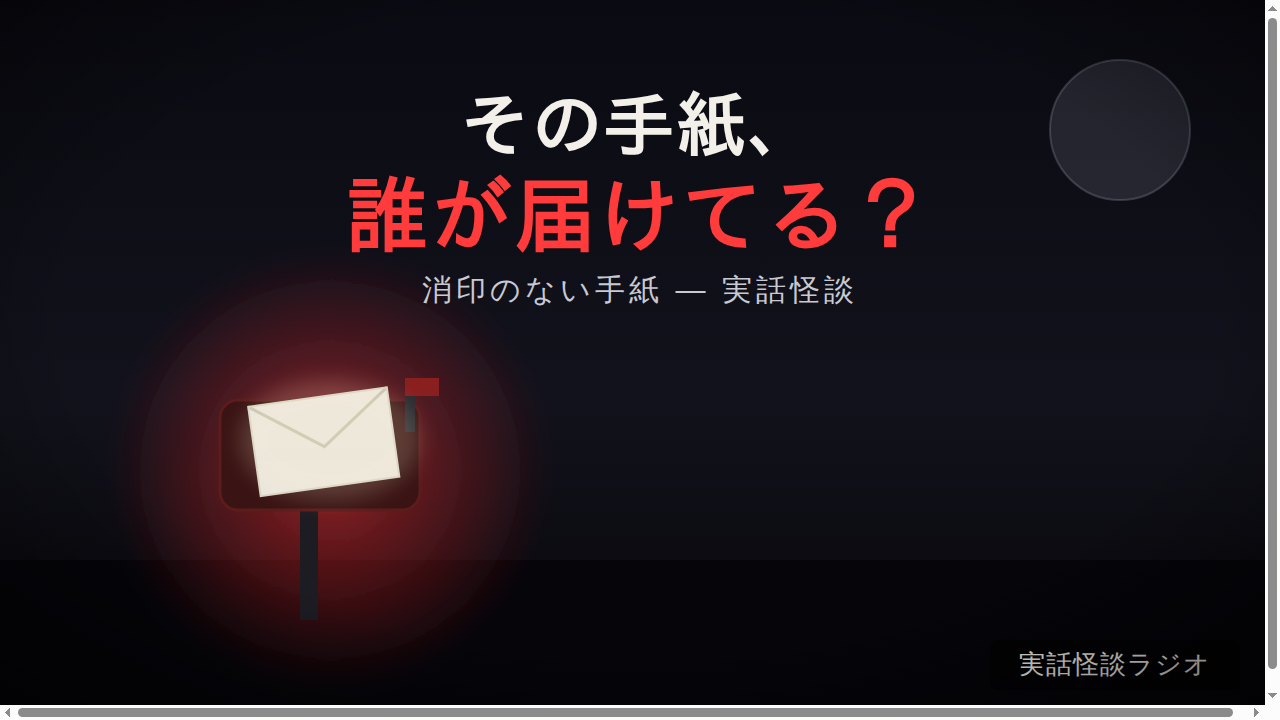
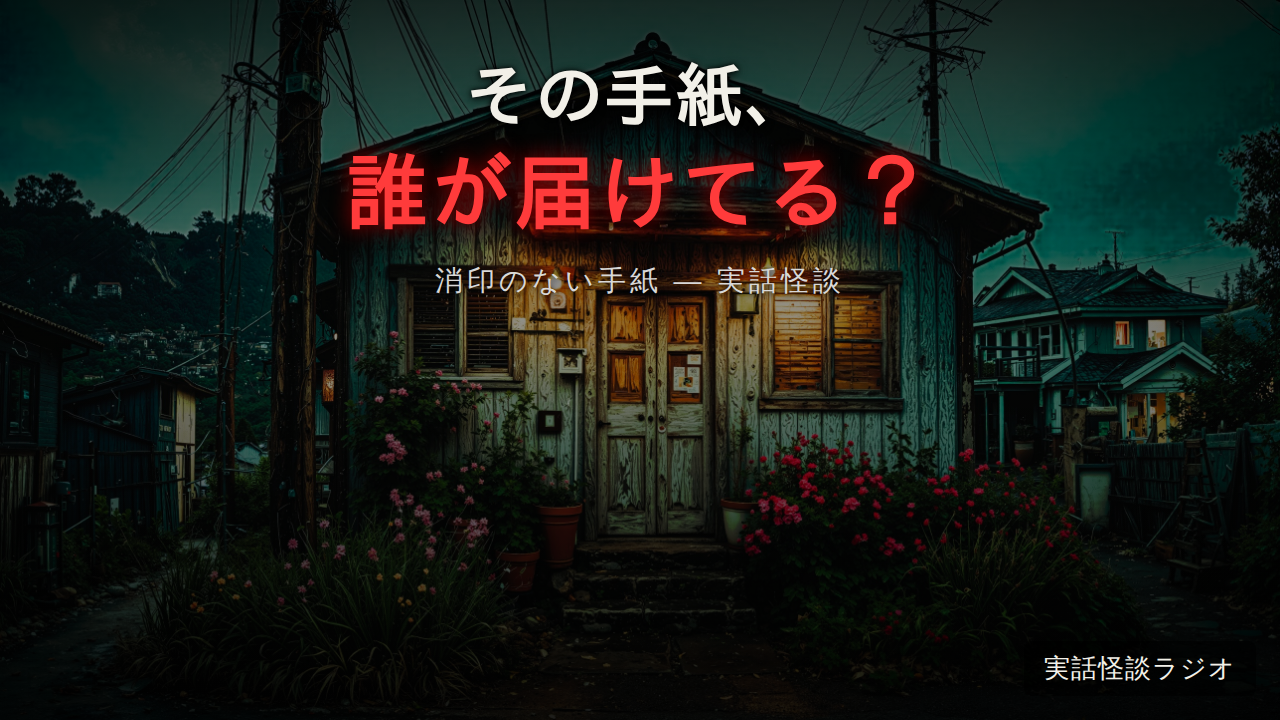
サムネイルをひかる提供の古い家の写真に差し替え
イラスト版のシンプルなサムネイルから、ひかるが用意した実写の古い家の
写真を背景にしたデザインへ変更。テキストのスタイル（白＋赤の強調文字）
は前と同じ配置を踏襲。

Claude-Session: https://claude.ai/code/session_01HsxeSUuWiacFq1bEUqMXML

diff --git a/docs/horror-scripts/thumbnails/01-yubinuke-build.html b/docs/horror-scripts/thumbnails/01-yubinuke-build.html
@@ -1,0 +1,37 @@
+<!doctype html>
+<html>
+<head>
+<meta charset="utf-8">
+<style>
+  html,body{margin:0;padding:0;width:1280px;height:720px;overflow:hidden;background:#000;}
+  .wrap{position:relative;width:1280px;height:720px;}
+  img.bg{position:absolute;top:50%;left:50%;width:1280px;height:auto;min-height:720px;
+    transform:translate(-50%,-50%);filter:brightness(0.62) saturate(1.05);}
+  .grad{position:absolute;inset:0;background:linear-gradient(to bottom, rgba(0,0,0,0.55) 0%, rgba(0,0,0,0.05) 30%, rgba(0,0,0,0.1) 55%, rgba(0,0,0,0.75) 100%);}
+  .vignette{position:absolute;inset:0;background:radial-gradient(ellipse at center, rgba(0,0,0,0) 45%, rgba(0,0,0,0.55) 100%);}
+  .title{position:absolute;top:60px;left:0;right:0;text-align:center;
+    font-family:'IPAGothic','Noto Sans JP',sans-serif;font-weight:700;letter-spacing:2px;
+    color:#f2f0e8;font-size:68px;text-shadow:0 2px 10px rgba(0,0,0,0.9), 0 0 4px rgba(0,0,0,0.9);}
+  .title2{position:absolute;top:150px;left:0;right:0;text-align:center;
+    font-family:'IPAGothic','Noto Sans JP',sans-serif;font-weight:900;letter-spacing:2px;
+    color:#ff3b3b;font-size:82px;text-shadow:0 0 20px rgba(255,0,0,0.6), 0 2px 10px rgba(0,0,0,0.9);}
+  .sub{position:absolute;top:262px;left:0;right:0;text-align:center;
+    font-family:sans-serif;font-size:28px;color:#d8d8d8;letter-spacing:4px;
+    text-shadow:0 2px 6px rgba(0,0,0,0.9);}
+  .tag{position:absolute;bottom:24px;right:24px;background:rgba(0,0,0,0.55);
+    border-radius:8px;padding:10px 20px;font-family:sans-serif;font-size:26px;
+    color:#f2f0e8;letter-spacing:1px;}
+</style>
+</head>
+<body>
+<div class="wrap">
+  <img class="bg" src="house.jpg">
+  <div class="grad"></div>
+  <div class="vignette"></div>
+  <div class="title">その手紙、</div>
+  <div class="title2">誰が届けてる？</div>
+  <div class="sub">消印のない手紙 ― 実話怪談</div>
+  <div class="tag">実話怪談ラジオ</div>
+</div>
+</body>
+</html>

diff --git a/docs/horror-scripts/01-yubinuke-upload-package.md b/docs/horror-scripts/01-yubinuke-upload-package.md
@@ -11,9 +11,9 @@
 
 ## サムネイル
 
-`docs/horror-scripts/thumbnails/01-yubinuke.svg`（プレビュー画像：`01-yubinuke-preview.png`、1280×720でそのまま使えるサイズ）
+`docs/horror-scripts/thumbnails/01-yubinuke-preview.png`（1280×720、そのまま使えるサイズ）
 
-Claudeが作った下案です。文字とポストのシルエットだけのシンプルなデザインなので、このまま使ってもOKですし、Pixabayの写真を背景に差し替えたい場合は言ってください。
+ひかるが用意した古い家の写真（`01-yubinuke-house-source.jpg`）を背景に、文字を重ねたものに確定。前のシンプルなイラスト版（`01-yubinuke.svg`）は不採用。
 
 ## 概要欄（コピペ用）
 
